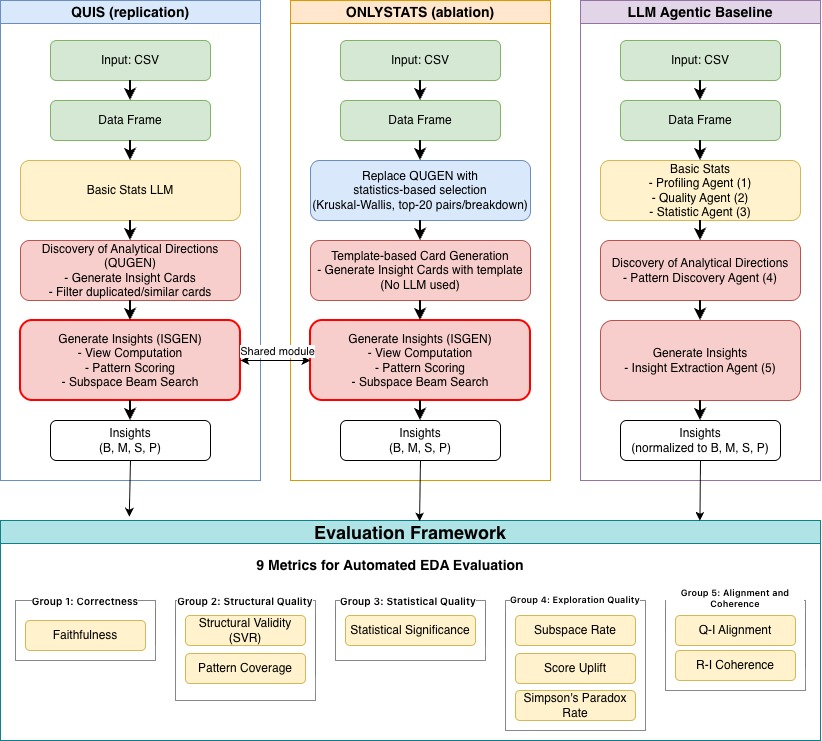
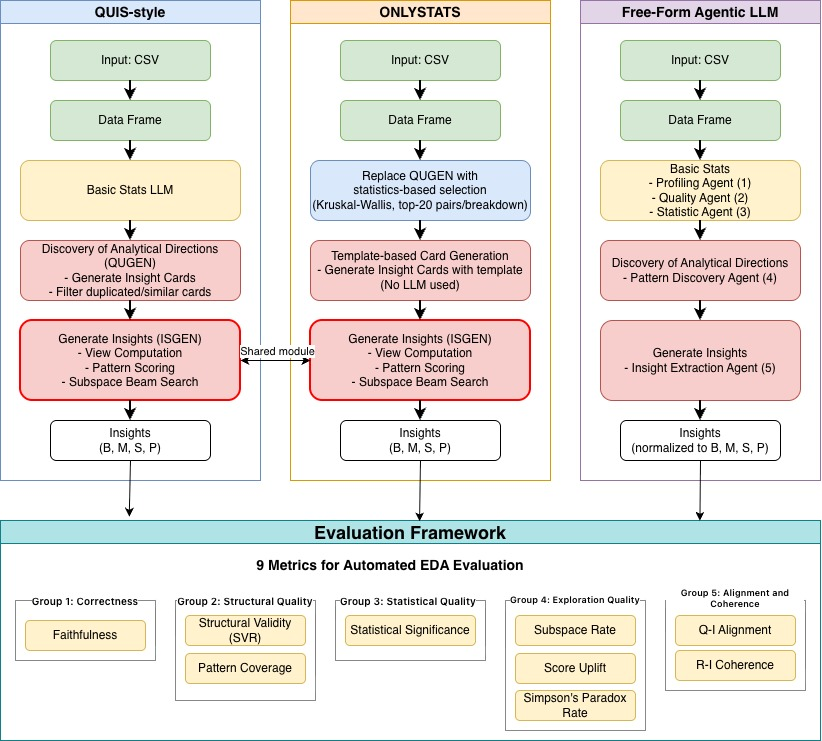
feat: update paper

Changed region(s): [[0.7603, 0.0, 0.9428, 0.031], [0.4258, 0.0, 0.6083, 0.031], [0.0912, 0.0, 0.2433, 0.031]]

diff --git a/docs/conference_IEEE.tex b/docs/conference_IEEE.tex
@@ -24,7 +24,7 @@
 \maketitle
 
 \begin{abstract}
-Human evaluation remains the dominant way to assess automated exploratory data analysis (AutoEDA) systems, but it is expensive, subjective, and difficult to reproduce. We introduce a reproducible automatic diagnostic framework for evaluating AutoEDA without human raters. The framework uses 9 metrics covering correctness, structural validity, statistical quality, subspace exploration, and question-insight alignment. We apply it to three representative pipelines: a QUIS-style structured question-guided system, ONLYSTATS as a statistics-based ablation, and a free-form agentic LLM pipeline. Across Adidas US Sales, IBM Employee Attrition, and Online Sales, the framework shows that structured intermediate representations reduce column-type errors and support broader subspace exploration. The QUIS-style pipeline achieves 94.0\% average structural validity, compared with 40.0\% for the agentic LLM, and discovers more subspace insights on average (84.4\% vs. 37.4\%). It also attains the highest Score Uplift ($x$=1.067) and discovers significant paradoxes in 2 of 3 datasets. Overall, the case study shows that schema-aware, question-guided representations improve the reliability of AutoEDA outputs and the breadth of subgroup discovery. More broadly, the paper contributes a reusable diagnostic framework for reproducible comparison of AutoEDA systems.
+Human evaluation remains the dominant way to assess automated exploratory data analysis (AutoEDA) systems, but it is expensive, subjective, and difficult to reproduce. We introduce a reproducible automatic diagnostic framework that exposes structural and statistical failures in AutoEDA systems—failures invisible to human evaluation, which focuses on output fluency rather than structural rigor. The framework uses 9 metrics covering correctness, structural validity, statistical quality, subspace exploration, and question-insight alignment. We apply it to three representative pipelines: a QUIS-style structured question-guided system, ONLYSTATS as a statistics-based ablation, and a free-form agentic LLM pipeline. Across Adidas US Sales, IBM Employee Attrition, and Online Sales, the framework shows that structured intermediate representations reduce column-type errors and support broader subspace exploration. The QUIS-style pipeline achieves 94.0\% average structural validity, compared with 40.0\% for the agentic LLM, and discovers more subspace insights on average (84.4\% vs. 37.4\%). It also attains the highest Score Uplift ($x$=1.067) and discovers significant paradoxes in 2 of 3 datasets. Overall, the case study shows that schema-aware, question-guided representations improve the reliability of AutoEDA outputs and the breadth of subgroup discovery. More broadly, the paper contributes a reusable diagnostic framework for reproducible comparison of AutoEDA systems.
 \end{abstract}
 
 \begin{IEEEkeywords}
@@ -45,7 +45,7 @@ The answer is consistent across our case study. The framework surfaces large, re
 Our contributions are:
 
 \begin{itemize}
-\item We introduce a reproducible automatic diagnostic framework with 9 metrics covering correctness, structural validity, statistical quality, subspace exploration, and question-insight alignment, and validate it through three purposefully designed systems (structured question-guided, statistics-based ablation, and free-form agentic LLM)---enabling systematic comparison of AutoEDA architectures without human raters.
+\item We introduce a reproducible automatic diagnostic framework with 9 metrics covering correctness, structural validity, statistical quality, subspace exploration, and question-insight alignment, and validate it through three purposefully designed systems (structured question-guided, statistics-based ablation, and free-form agentic LLM)---enabling systematic measurement of structural and statistical properties that human evaluation often overlooks, while providing reproducible comparison of AutoEDA architectures.
 \item We show through cross-dataset validation that the framework reliably differentiates AutoEDA architectures without human raters, surfacing a 54-point structural-validity gap and a 47-point Subspace Rate gap between structured and free-form designs (94.0\% vs 40.0\% SVR; 84.4\% vs 37.4\% Subspace Rate; $x$=1.067 Score Uplift; significant paradoxes detected in 2 of 3 datasets).
 \item Framework diagnostics establish that structural validity is a prerequisite for meaningful subspace analysis: systems with invalid breakdowns cannot produce statistically significant paradoxes.
 \end{itemize}
@@ -247,6 +247,9 @@ Control & 9. R-I Coherence & \textbf{0.526} & 0.514 & N/A & \textbf{QUIS-style} 
 \hline
 \end{tabular}
 \label{tab:avg_results}
+\end{center}
+\begin{center}
+\scriptsize{\textit{Note: The 'Winner' column illustrates metric discrimination, not system recommendation.}}
 \end{center}
 \end{table*}
 }
